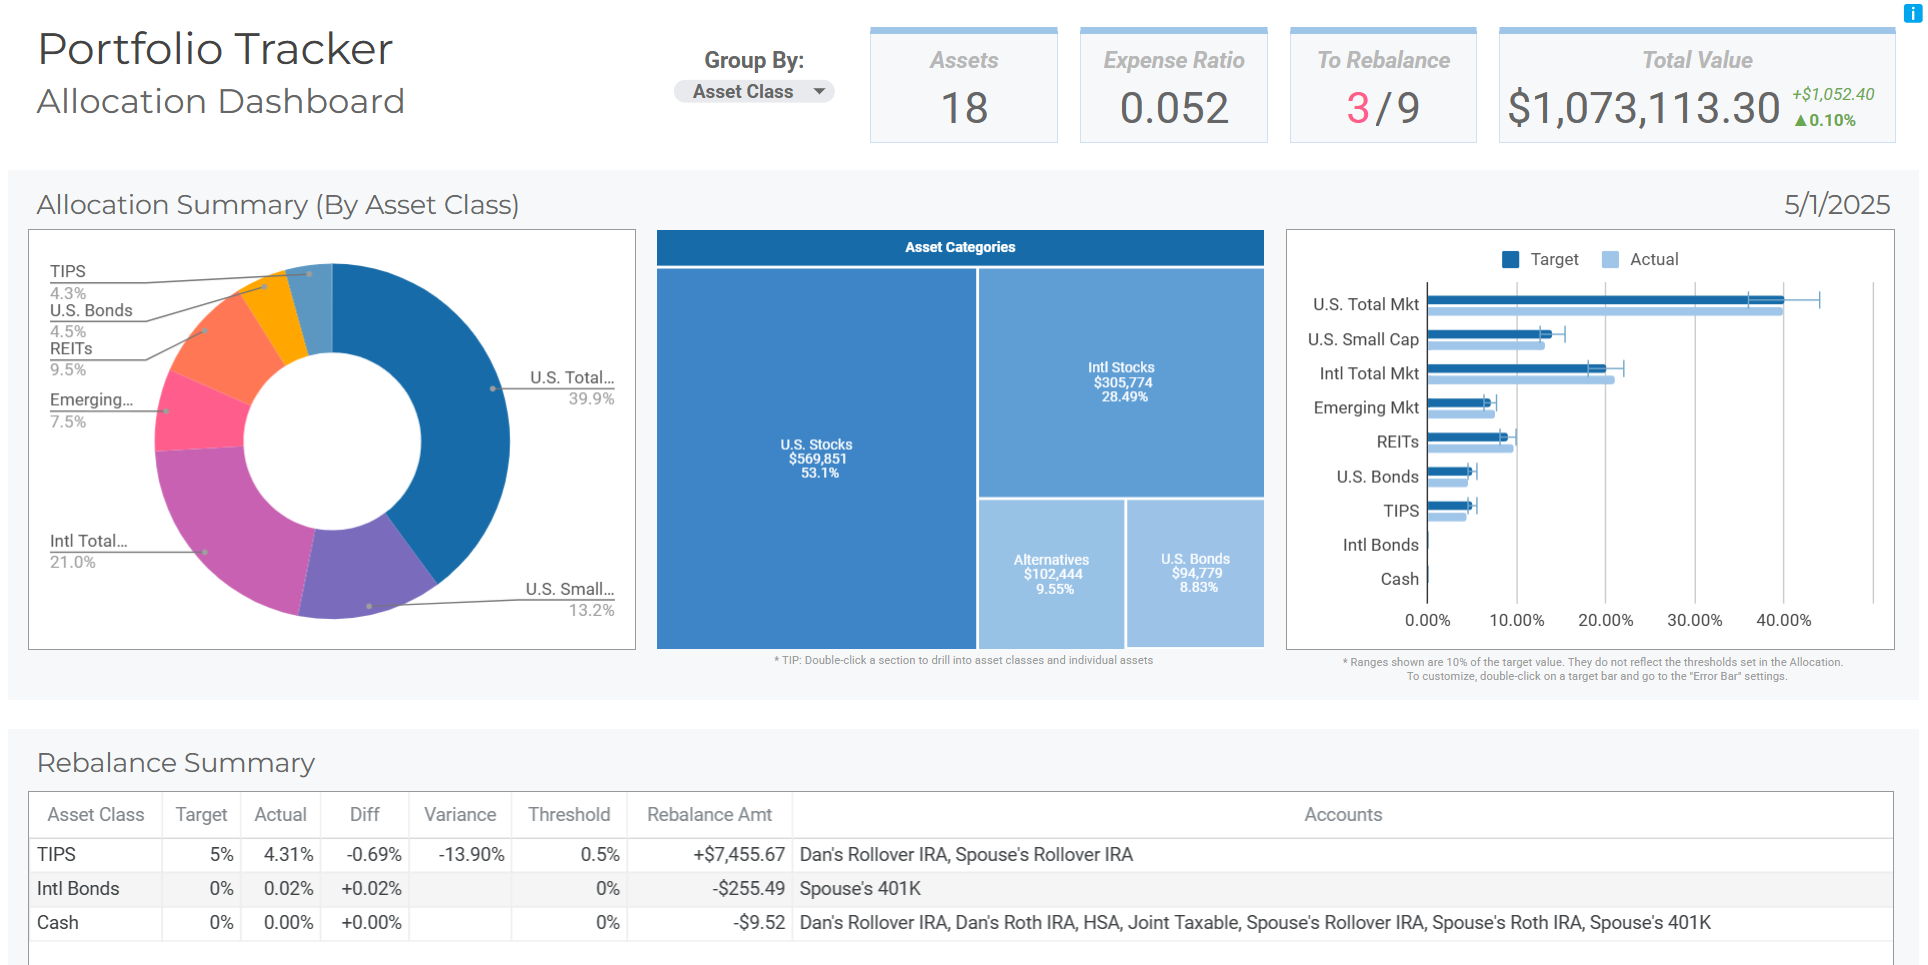
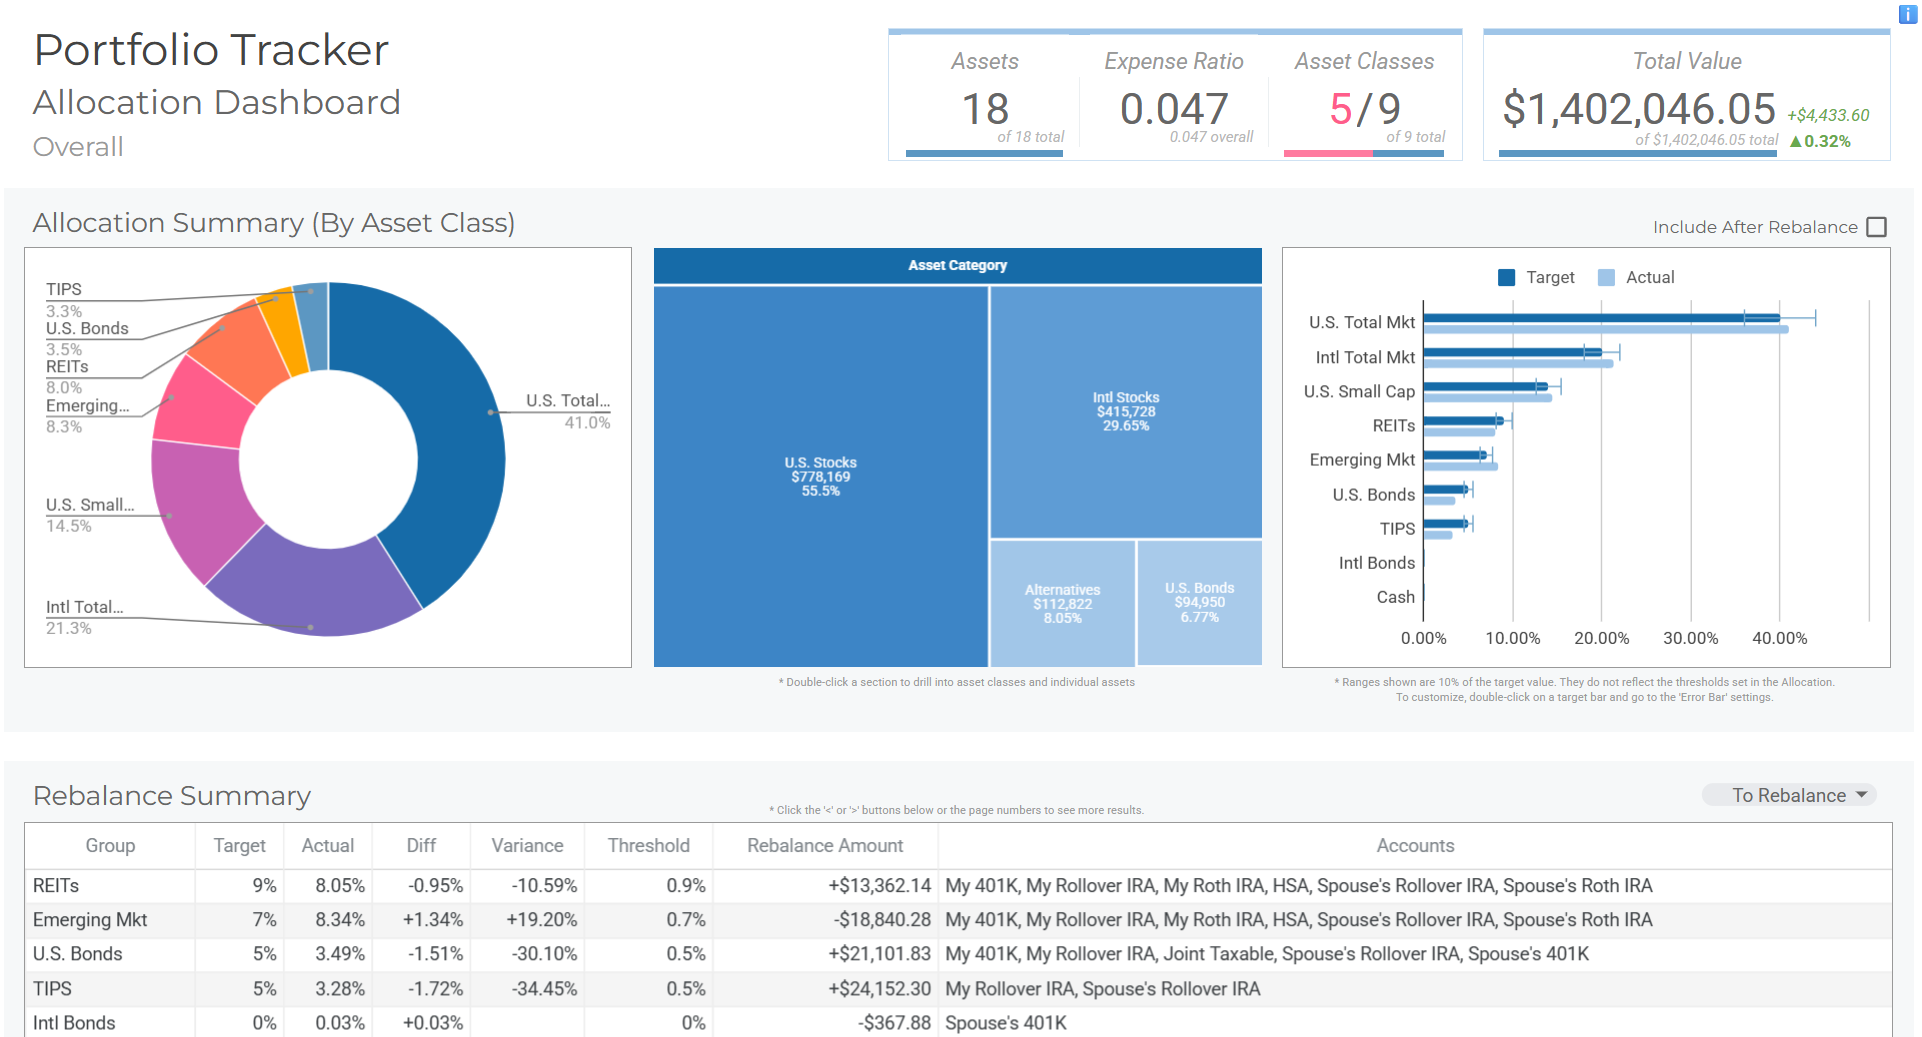
v2.2.0 Release

diff --git a/README.md b/README.md
@@ -8,23 +8,26 @@ Download the latest version: [Releases](https://github.com/danbuchal/portfolio-t
 
 ## Key Features
 
-* **Interactive Dashboards:** Visualize your asset allocation and accounts at a glance and gain valuable insights into your portfolio's composition.
+* **Interactive Dashboards:** Visualize your asset allocation and holdings at a glance and gain valuable insights into your portfolio's composition.
+* **Advanced Filtering:** Create custom filtered views of your dashboard data.
+* **Custom Allocations:** Create custom allocations and apply them to Dashboard Views.
 * **Near Real-Time Quotes:** Stay up-to-date with market data (delayed up to 20 minutes).
 * **Organized Table Views:** Pre-defined views help you quickly analyze your holdings from different perspectives.
 * **Collapsible Column Groups:** Show or hide detailed information as needed, keeping your view clean and focused.
-* **Multiple Classes / Asset**: Track allocation of funds/assets having more than one asset class (e.g. Target Date Funds).
-* **Completely Free:** Portfolio Tracker is FREE to use.  
+* **Multiple Classes / Asset**: Track allocation of funds/assets having more than one asset class (e.g., Target Date Funds).
+* **Completely Free:** Portfolio Tracker is FREE to use.
   If you wish to support its development, buy me a coffee!
 
   [![buy me a coffee](assets/images/bmc-button.png)](https://buymeacoffee.com/danbuchal)
 
 ## The Story Behind Portfolio Tracker
 
-Over ten years ago, I created the first version of Portfolio Tracker for my personal use. I shared it with Rob Berger (former owner of DoughRoller), and the response was *incredible*! He generously shared it with his audience, and it became the top Google search result for "[Best Investment Tracking Spreadsheet](https://www.google.com/search?q=best+investment+tracking+spreadsheet)".
+I created the first version of Portfolio Tracker for my personal use in 2015. I shared it with Rob Berger (former owner of DoughRoller), and the response was *incredible*! He generously shared it with his audience, and it became one of the top Google search result for "[Best Investment Tracking Spreadsheet](https://www.google.com/search?q=best+investment+tracking+spreadsheet)".
 
-Rob has featured Portfolio Tracker in many of his articles, podcasts, and YouTube videos. Most recently, he highlighted it in his YouTube video, [3 Essential Tools to Evaluate Your Investment Portfolio](https://www.youtube.com/watch?v=jP55dUHlIM4&t=888s).
+Rob has featured Portfolio Tracker in many of his articles, podcasts, and YouTube videos.  
+[3 Essential Tools to Evaluate Your Investment Portfolio](https://www.youtube.com/watch?v=jP55dUHlIM4&t=888s).
 
-You can also find his article [here](https://robberger.com/investment-tracking-spreadsheet/).
+His article may be found [here](https://robberger.com/investment-tracking-spreadsheet/).
 
 ## Reimagined for Today
 
@@ -55,4 +58,4 @@ I value your feedback! Please [contact me](mailto:portfoliotracker@buchal.dev) w
 * Conduct your own research before making any investment decisions based on information from Portfolio Tracker.
 
 ---
-v2.1.1
+v2.2.0
